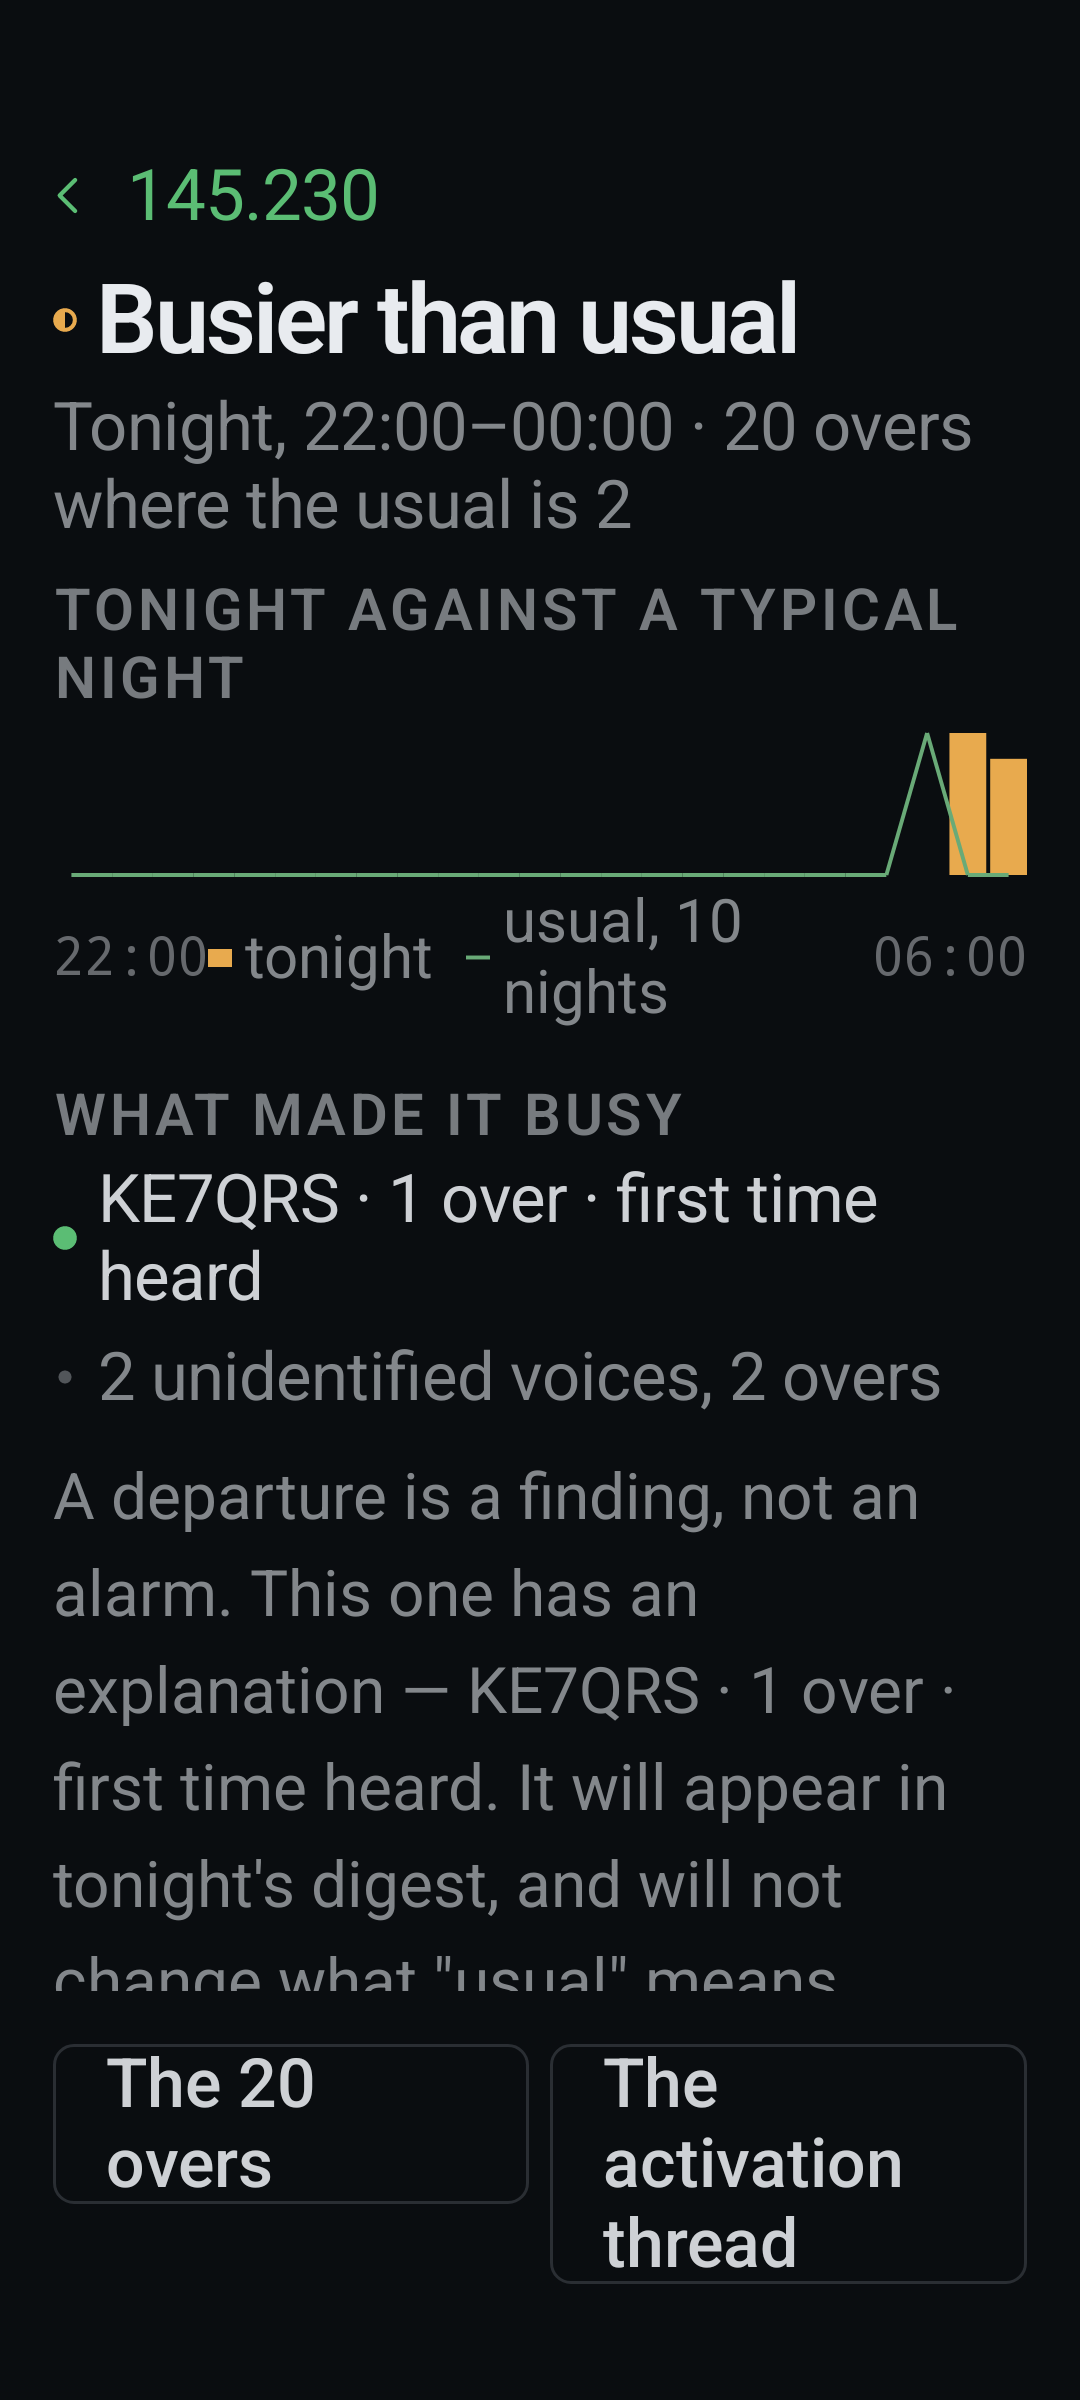
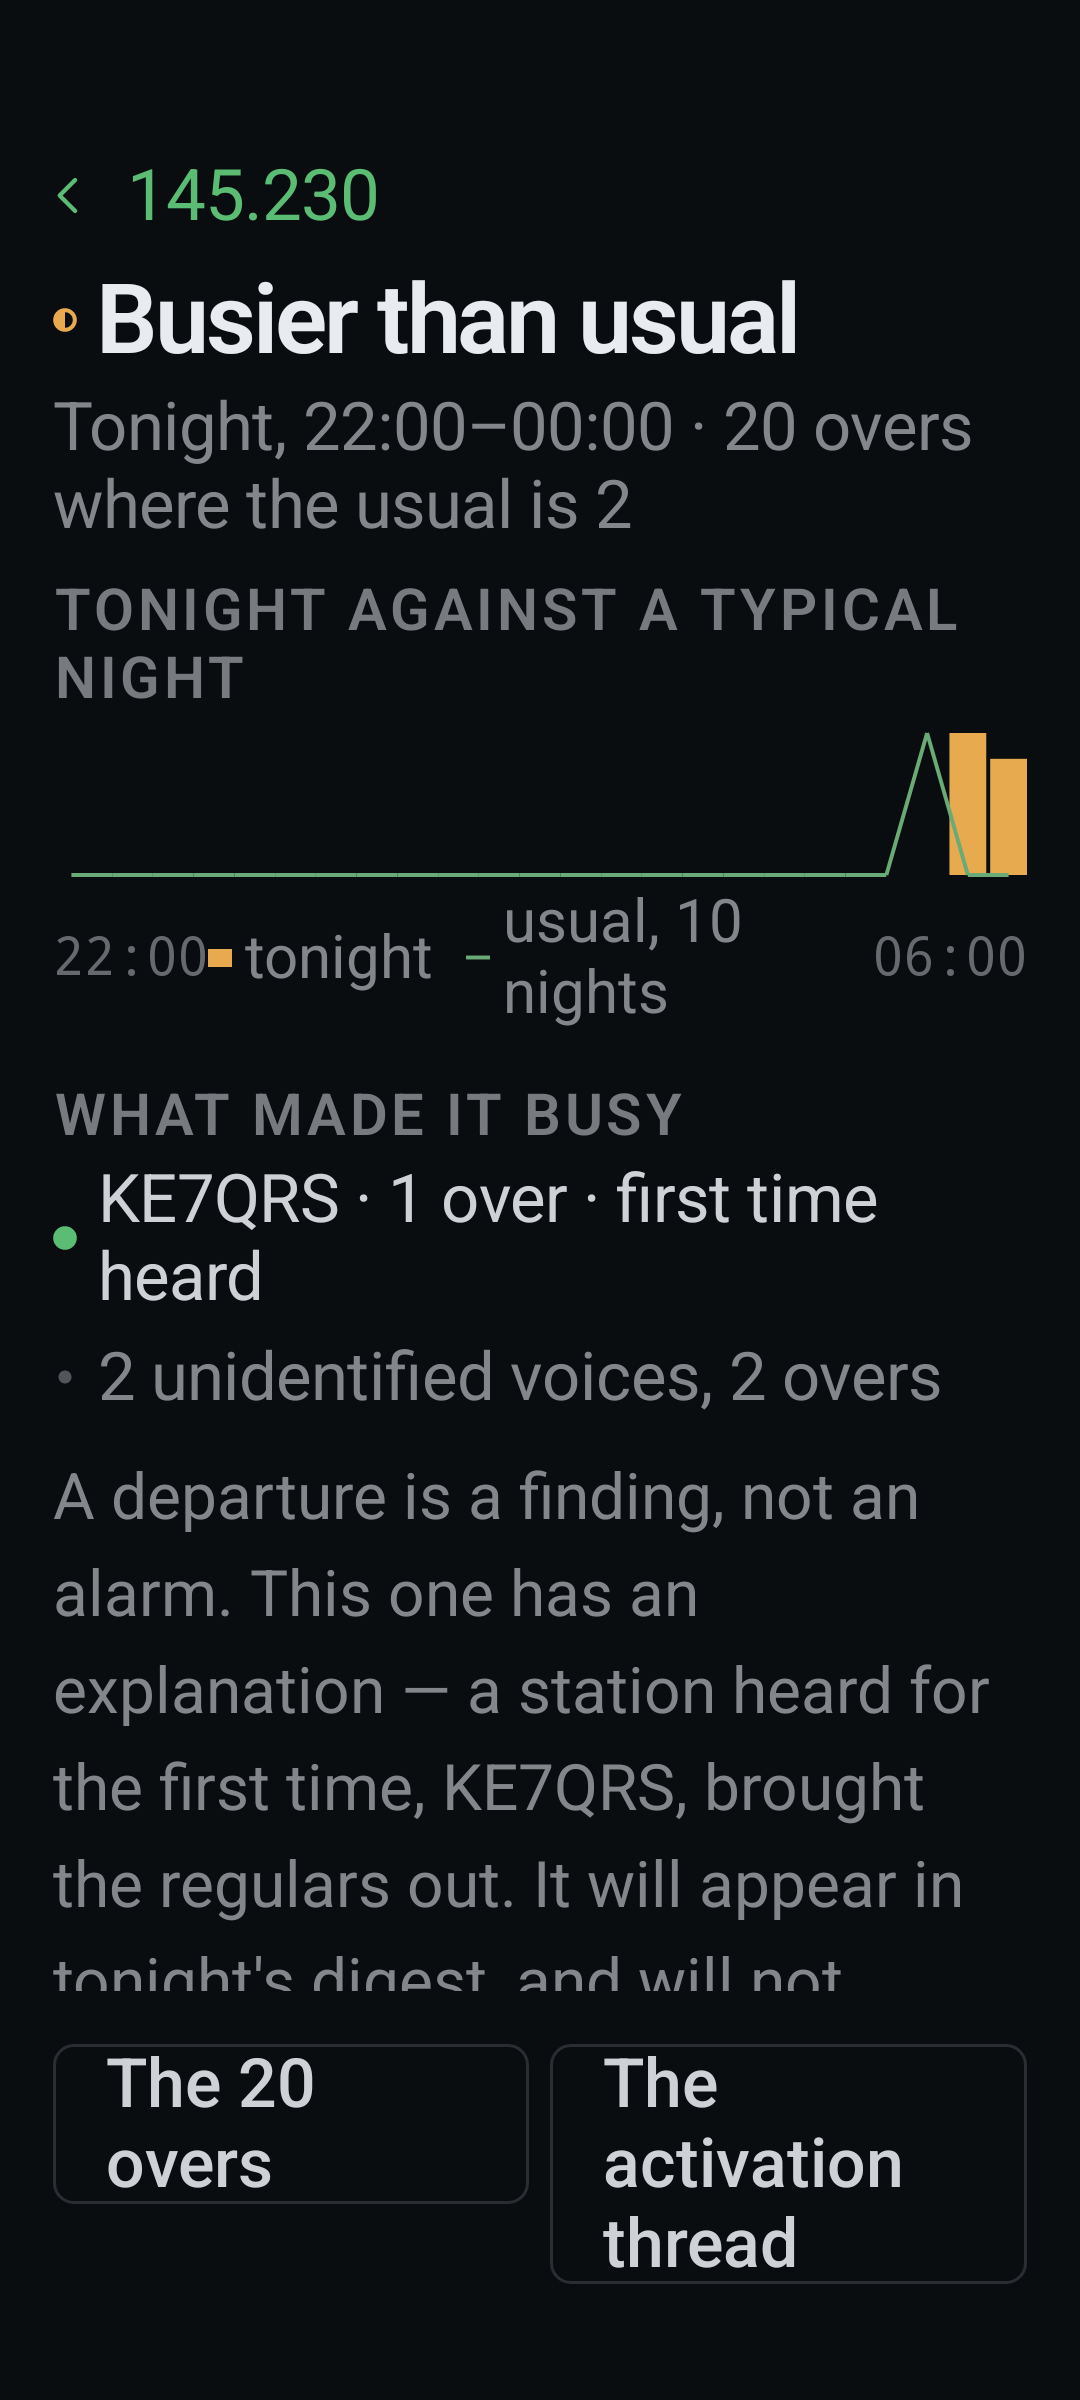
ui-conformance · recapture at 72a08b1: R-591 closed; R-590 regressed at 1.0 (evidence committed)

Changed region(s): [[0.0611, 0.6875, 0.9167, 0.8438], [0.8556, 0.7812, 0.8861, 0.8125]]

diff --git a/results/ui-audit/register.md b/results/ui-audit/register.md
@@ -409,6 +409,6 @@ Filed by the emulator validators (plan §E) against the build named in each row;
 | R-572 | ST04 Station-Identity sub-lines | `Station-Identity`, constitution | Review 4 @ebf4004: Callsign sub-line drops "parsed from audio every time" and Voiceprint drops "stable since <date>" — the audio-level-resolution qualifier and the stability clause the board states. `stations-14-nights/ST04-station-identity.png`. WP8. WP8 1e2ec9a: "stable since" = earliest over in the bound cluster (a real first-seen fact, not a stability judgement — accepted); omitted honestly when no voiceprint. Review 5 @cbaca66: confirmed. | polish | closed |
 | R-573 | ST03 Station-Pattern default tab | `Station-Pattern` | Review 4 @ebf4004: the board's active tab on load is "Hour × day"; the build defaults to "By hour". `stations-14-nights/ST03-station-pattern.png`. WP8. WP8 1e2ec9a. V-final @cbaca66: Hour × day checked on load. | design | closed |
 | R-574 | ST03 Station-Pattern By-hour chart axis | `Station-Pattern`, `Charts` C09 | Review 4 @ebf4004: the 24-bar chart carries no hour-axis labels or ticks (Charts board: boundary times at both ends and the not-listening legend). `stations-14-nights/ST03-station-pattern.png`. WP8. WP8 1e2ec9a: axis 22:00 / 06:00 via ActivityPatternChart. V-final @cbaca66: 22:00 / 06:00 axis labels. | design | closed |
-| R-590 | CF03 Settings-Storage "Then stop retaining audio" row at 1.0 | `Settings-Storage`, cf. R-551 | Review 5 @cbaca66: `RetentionOrderRow` stacks label / "always" / sub-line unconditionally although width is ample at 1.0, breaking the label-left / value-right table pattern of every sibling row (board line 81 places "always" beside the wrapped label, vertically centred). Stack only when the scaled text needs it (e.g. fontScale ≥ 1.3 or a measured overflow), side-by-side otherwise. `overnight/CF03-settings-storage.png`. WP10. WP10 1338db8: side-by-side below fontScale 1.3, stack above; R_590 at 1.0 and 2.0. | design | fixed |
-| R-591 | FQ03 Frequency-Change closing paragraph | `Frequency-Change`, FR-UI-11, cf. R-563 | Review 5 @cbaca66: the sentence splices the raw list-item text — "This one has an explanation — KE7QRS · 1 over · first time heard." — instead of a narrated clause like the board's "an activation pulled the regulars over." Narrate the cause from its kind (activation / new station / net) and keep the dotted facts to the list. `frequency-change/FQ03-frequency-change@2x.png`. WP8. WP8 365804e: narrateFrequencyChangeCause by kind (new station / activation / net), honest fallback for unknown; the fixture yields the new-station sentence. | design | fixed |
+| R-590 | CF03 Settings-Storage "Then stop retaining audio" row at 1.0 | `Settings-Storage`, cf. R-551 | Review 5 @cbaca66: `RetentionOrderRow` stacks label / "always" / sub-line unconditionally although width is ample at 1.0, breaking the label-left / value-right table pattern of every sibling row (board line 81 places "always" beside the wrapped label, vertically centred). Stack only when the scaled text needs it (e.g. fontScale ≥ 1.3 or a measured overflow), side-by-side otherwise. `overnight/CF03-settings-storage.png`. WP10. WP10 1338db8: side-by-side below fontScale 1.3, stack above; R_590 at 1.0 and 2.0. Lead @72a08b1 tour recapture at 1.0: worse — "always" renders one letter per line at the right edge (label wins the width). WP10 sent the capture. | design | open |
+| R-591 | FQ03 Frequency-Change closing paragraph | `Frequency-Change`, FR-UI-11, cf. R-563 | Review 5 @cbaca66: the sentence splices the raw list-item text — "This one has an explanation — KE7QRS · 1 over · first time heard." — instead of a narrated clause like the board's "an activation pulled the regulars over." Narrate the cause from its kind (activation / new station / net) and keep the dotted facts to the list. `frequency-change/FQ03-frequency-change@2x.png`. WP8. WP8 365804e: narrateFrequencyChangeCause by kind (new station / activation / net), honest fallback for unknown; the fixture yields the new-station sentence. Lead @72a08b1 tour recapture: "a station heard for the first time, KE7QRS, brought the regulars out." | design | closed |
 | R-592 | Full gate (`:app:testDebugUnitTest`) | process, cf. cb1d8cd poison hunt | Lead @cbaca66: the suite wedges in `LevelMeterScreenTest.R_542` (WP4 db8d92e) — "SDK 34 Main Thread" spins in `RobolectricIdlingStrategy.runUntilIdle` / `advanceTimeByFrame` for 25 min while the test worker parks on `waitForIdle`; the level-meter poller never lets Compose idle in the shared JVM. Passes alone. Fix the test (explicit clock, cancel the poller) or isolate the file into `smokeTestDebugUnitTest`. WP4. WP4 1338db8: LevelMeterScreenTest isolated into smoke (forkEvery 1); a second wedge remains in FrequencyScreenTest under the shared JVM (AppNotIdle 60 s per test; 14/14 in 8 s alone) — poison hunt 2 spawned. | process | partial |
